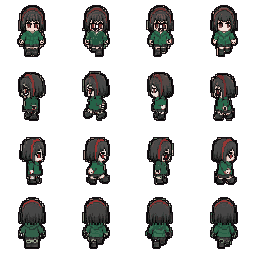
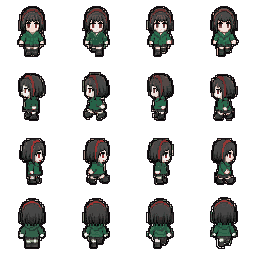
fix(sprites): restore 100% solid character body/face/skin rendering with zero hollow holes while maintaining round head contours and no frame bleed

diff --git a/tools/normalize_sprite_anchors.py b/tools/normalize_sprite_anchors.py
@@ -39,20 +39,6 @@ def clean_and_normalize_sheet(source: Path, destination: Path) -> None:
     original = Image.open(source).convert("RGBA")
     arr = np.asarray(original).copy()
 
-    # 1. Clean neutral white / grey noise specks across the entire sheet
-    r_c, g_c, b_c = arr[..., 0], arr[..., 1], arr[..., 2]
-    alpha = arr[..., 3]
-    max_rgb = np.maximum(np.maximum(r_c, g_c), b_c)
-    min_rgb = np.minimum(np.minimum(r_c, g_c), b_c)
-    chroma = max_rgb - min_rgb
-
-    is_white_noise = (alpha > 0) & (min_rgb > 205) & (chroma < 14)
-    eroded = ndimage.binary_erosion(alpha > 20, iterations=2)
-    outer_perimeter = (alpha > 0) & ~eroded
-    is_pale_fringe = outer_perimeter & (min_rgb > 190) & (chroma < 35)
-
-    arr[is_white_noise | is_pale_fringe] = 0
-
     frames: list[Image.Image] = []
     boxes: list[tuple[int, int, int, int] | None] = []
 
@@ -74,7 +60,7 @@ def clean_and_normalize_sheet(source: Path, destination: Path) -> None:
             x1_src, x2_src = col_splits[col]
             cell = row_slice[:, x1_src:x2_src].copy()
 
-            # Remove edge leak components
+            # Remove edge leak components from neighbor cells and small 1-2px floating dust
             binary = cell[..., 3] > 20
             labeled, num_features = ndimage.label(binary)
             if num_features > 0:
@@ -90,6 +76,8 @@ def clean_and_normalize_sheet(source: Path, destination: Path) -> None:
                         or pts[:, 1].max() >= cell.shape[1] - 2
                     )
                     if touches_edge and size < largest_size * 0.20:
+                        cell[labeled == label_idx] = 0
+                    elif size <= 3:
                         cell[labeled == label_idx] = 0
 
             frame_img = Image.fromarray(cell, "RGBA")
